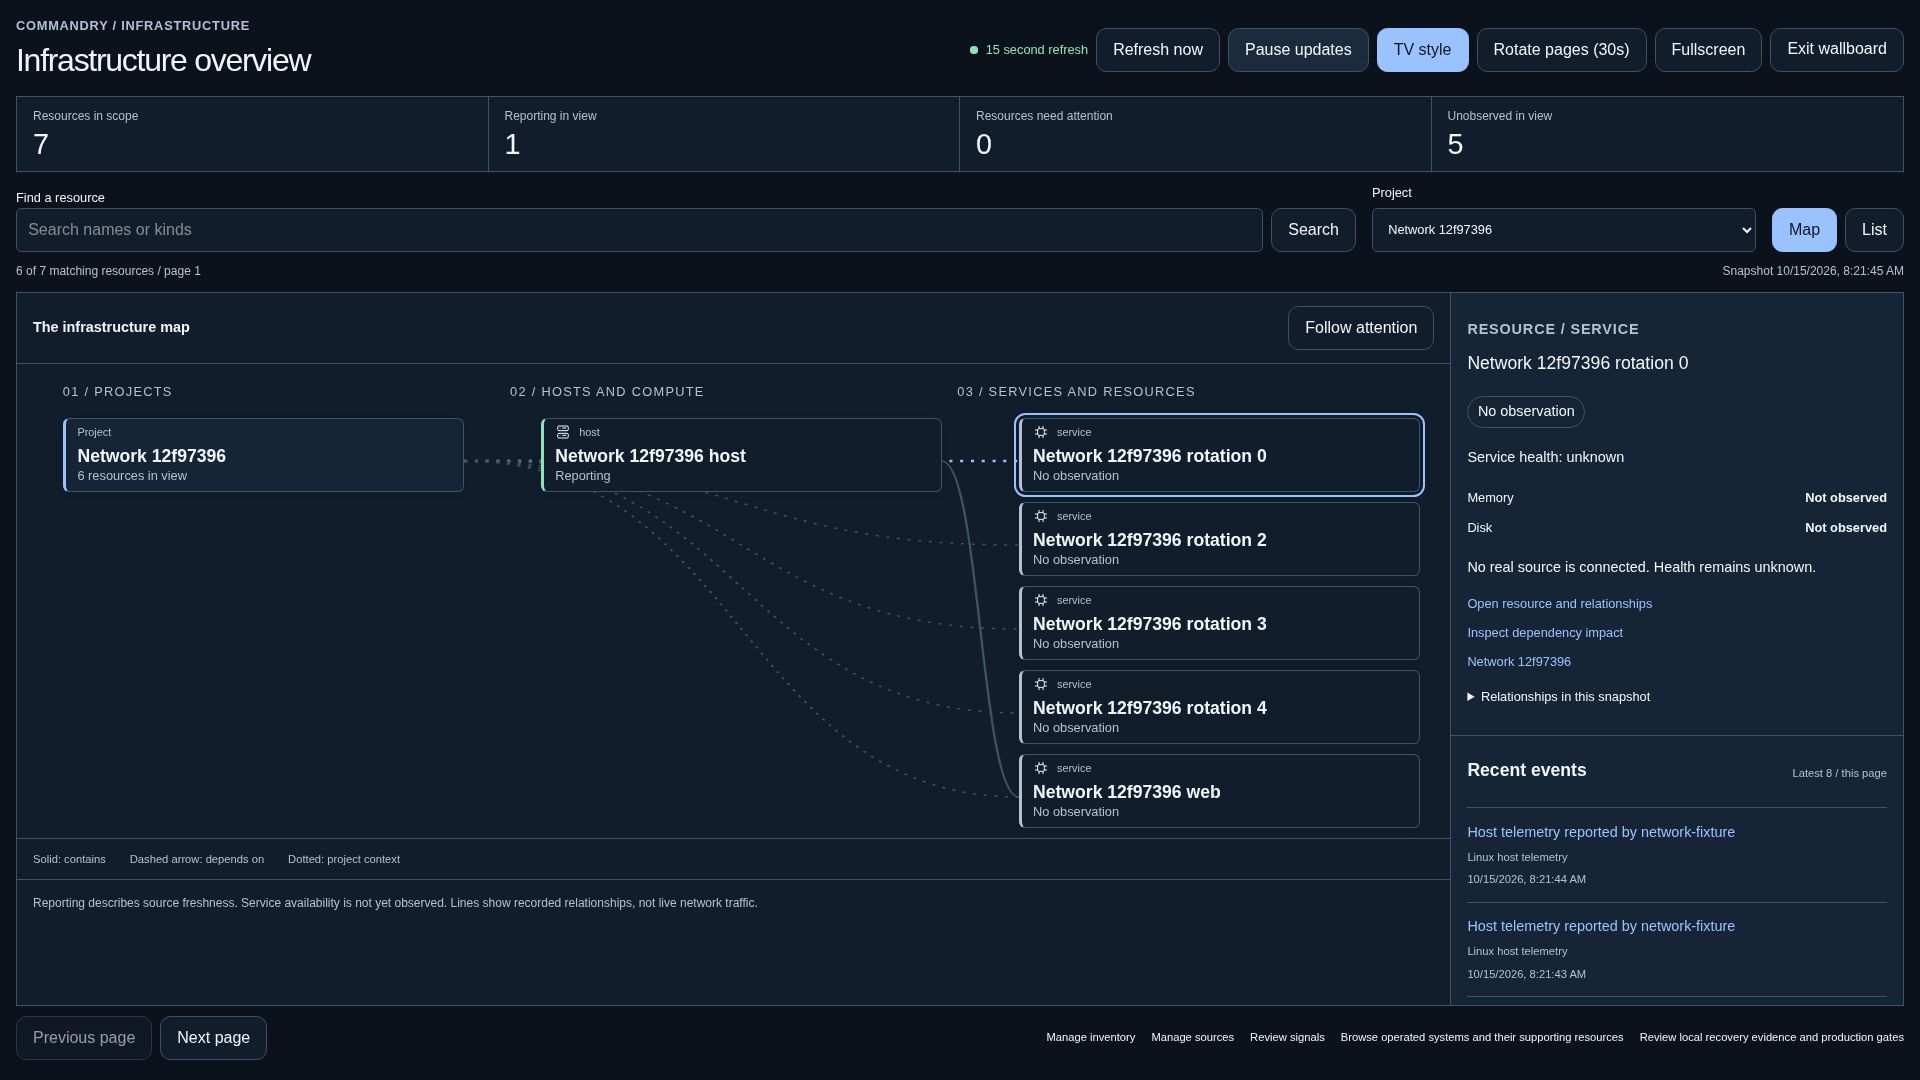
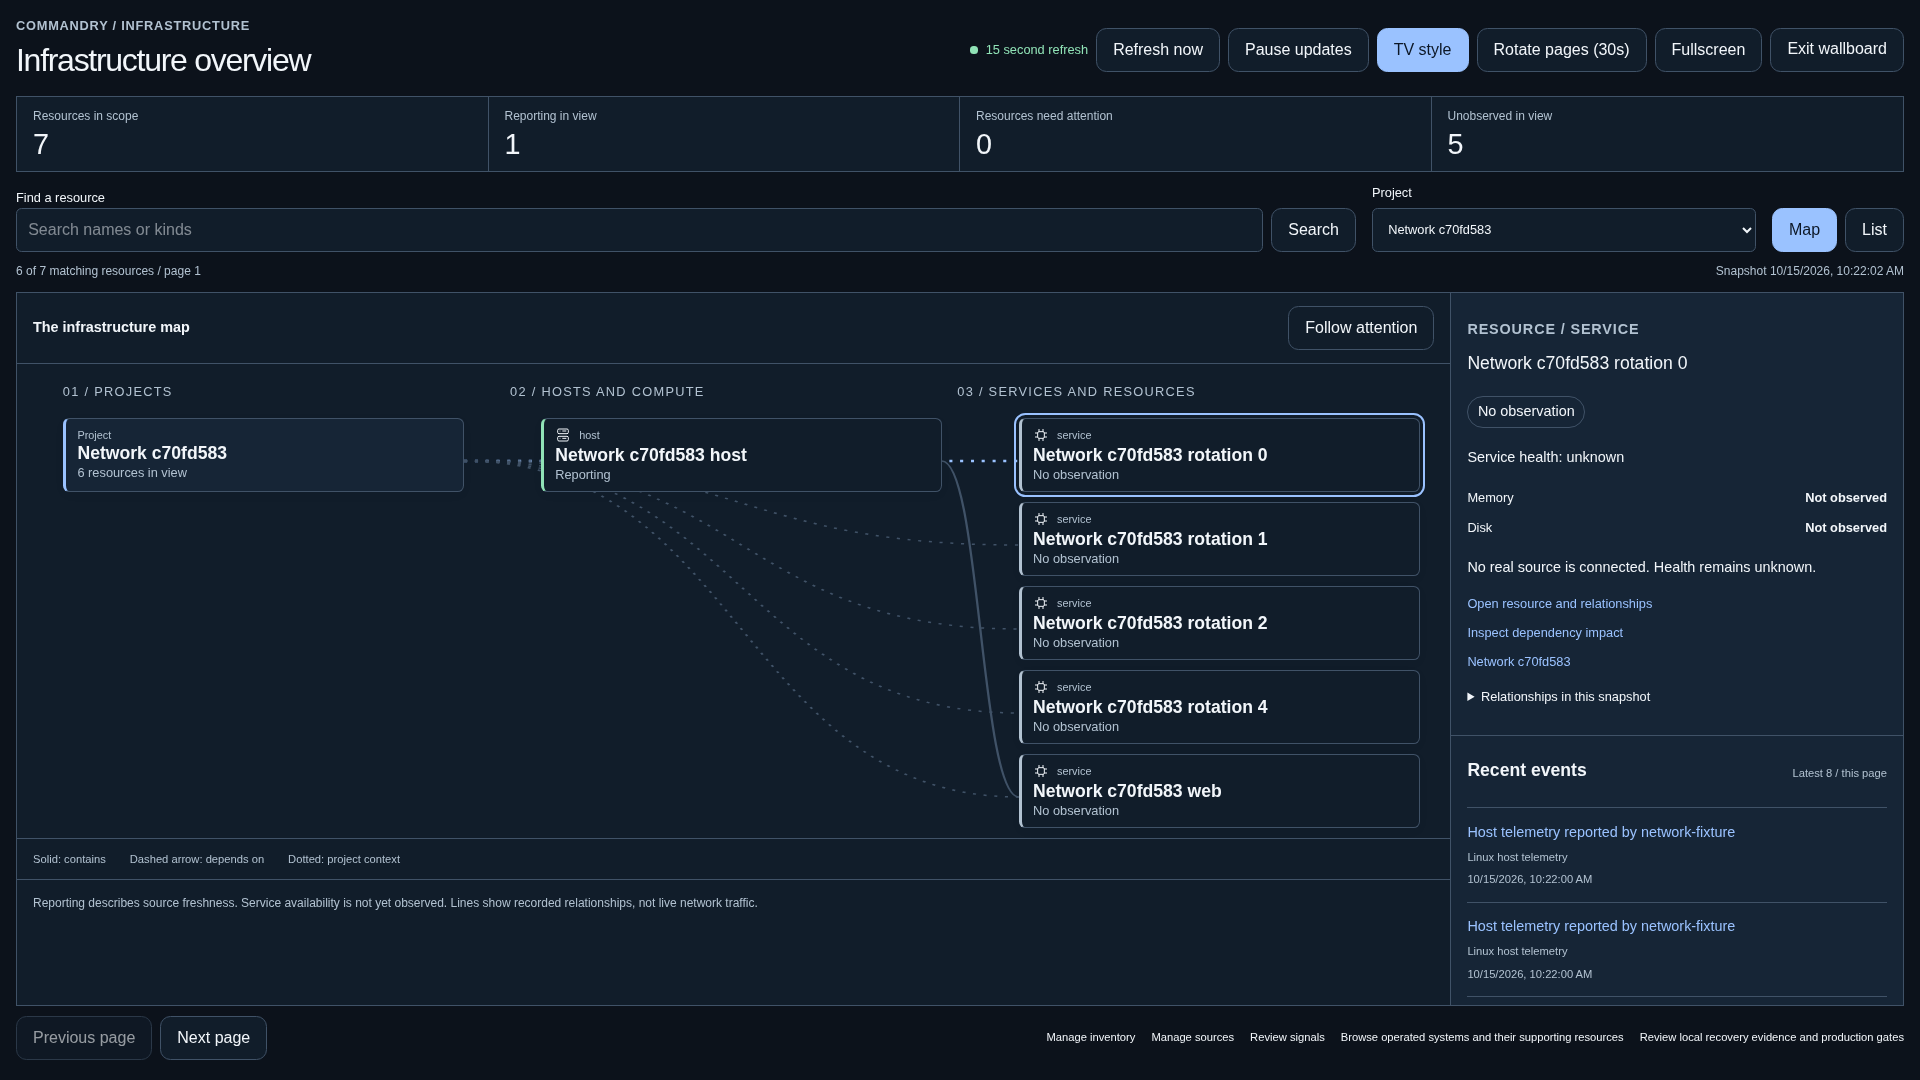
Keep wallboard labels readable in narrow browser panels

diff --git a/tests/e2e/infrastructure-overview.spec.ts b/tests/e2e/infrastructure-overview.spec.ts
@@ -147,6 +147,16 @@ test("map, list, evidence, project focus and wallboard work across themes and vi
     await expect(
       page.getByRole("button", { name: "TV style" }),
     ).toHaveAttribute("aria-pressed", "true");
+    const labelsFit = await page
+      .locator(".cmd-network-node strong")
+      .evaluateAll((labels) =>
+        labels.every(
+          (label) =>
+            label.getBoundingClientRect().height >=
+            parseFloat(getComputedStyle(label).lineHeight) - 1,
+        ),
+      );
+    expect(labelsFit).toBe(true);
     await page
       .getByRole("button", { name: "Pause updates", exact: true })
       .click();

diff --git a/packages/ui/src/tokens.css b/packages/ui/src/tokens.css
@@ -3938,3 +3938,24 @@ textarea {
     font-size: 0.7rem;
   }
 }
+
+/* Keep labels at their full line height in narrow wallboard panels. */
+.cmd-network-node > * {
+  flex-shrink: 0;
+  line-height: 1.1;
+}
+.cmd-network-wallboard .cmd-network-node {
+  height: 74px;
+  padding: 0.35rem 0.7rem;
+  gap: 0.15rem;
+}
+.cmd-network-wallboard .cmd-network-node svg {
+  width: 16px;
+  height: 16px;
+}
+.cmd-network-wallboard .cmd-network-node strong {
+  font-size: 1.1rem;
+}
+.cmd-network-wallboard .cmd-network-node-kind {
+  font-size: 0.68rem;
+}

diff --git a/docs/implementation/infrastructure-network.md b/docs/implementation/infrastructure-network.md
@@ -119,6 +119,15 @@ The screenshot below is from that local 1920x1080 test.
 | Refresh failure test   | Next's route announcer also uses `role=alert`.               | Scope the assertion to the actual delayed-refresh message; all three viewport checks pass.          |
 | Dependency impact link | The existing impact view is an anchor on the resource page.  | Link to `#dependency-impact`, retaining the canonical resource route.                               |
 
+### Preview follow-up, 2026-10-15
+
+The owner's narrow in-app browser exposed vertically clipped node names.
+Preventing flex shrink on node labels and applying compact wallboard spacing at
+all widths corrected it. The production build and all nine overview browser
+checks passed again, now including a measured full-line-height assertion on node
+names in every configured viewport and theme. The owner requested merging and
+an interactive local preview; the preview is intentionally retained for review.
+
 ### Limits
 
 No production deployment, infrastructure change, source reconfiguration, or
